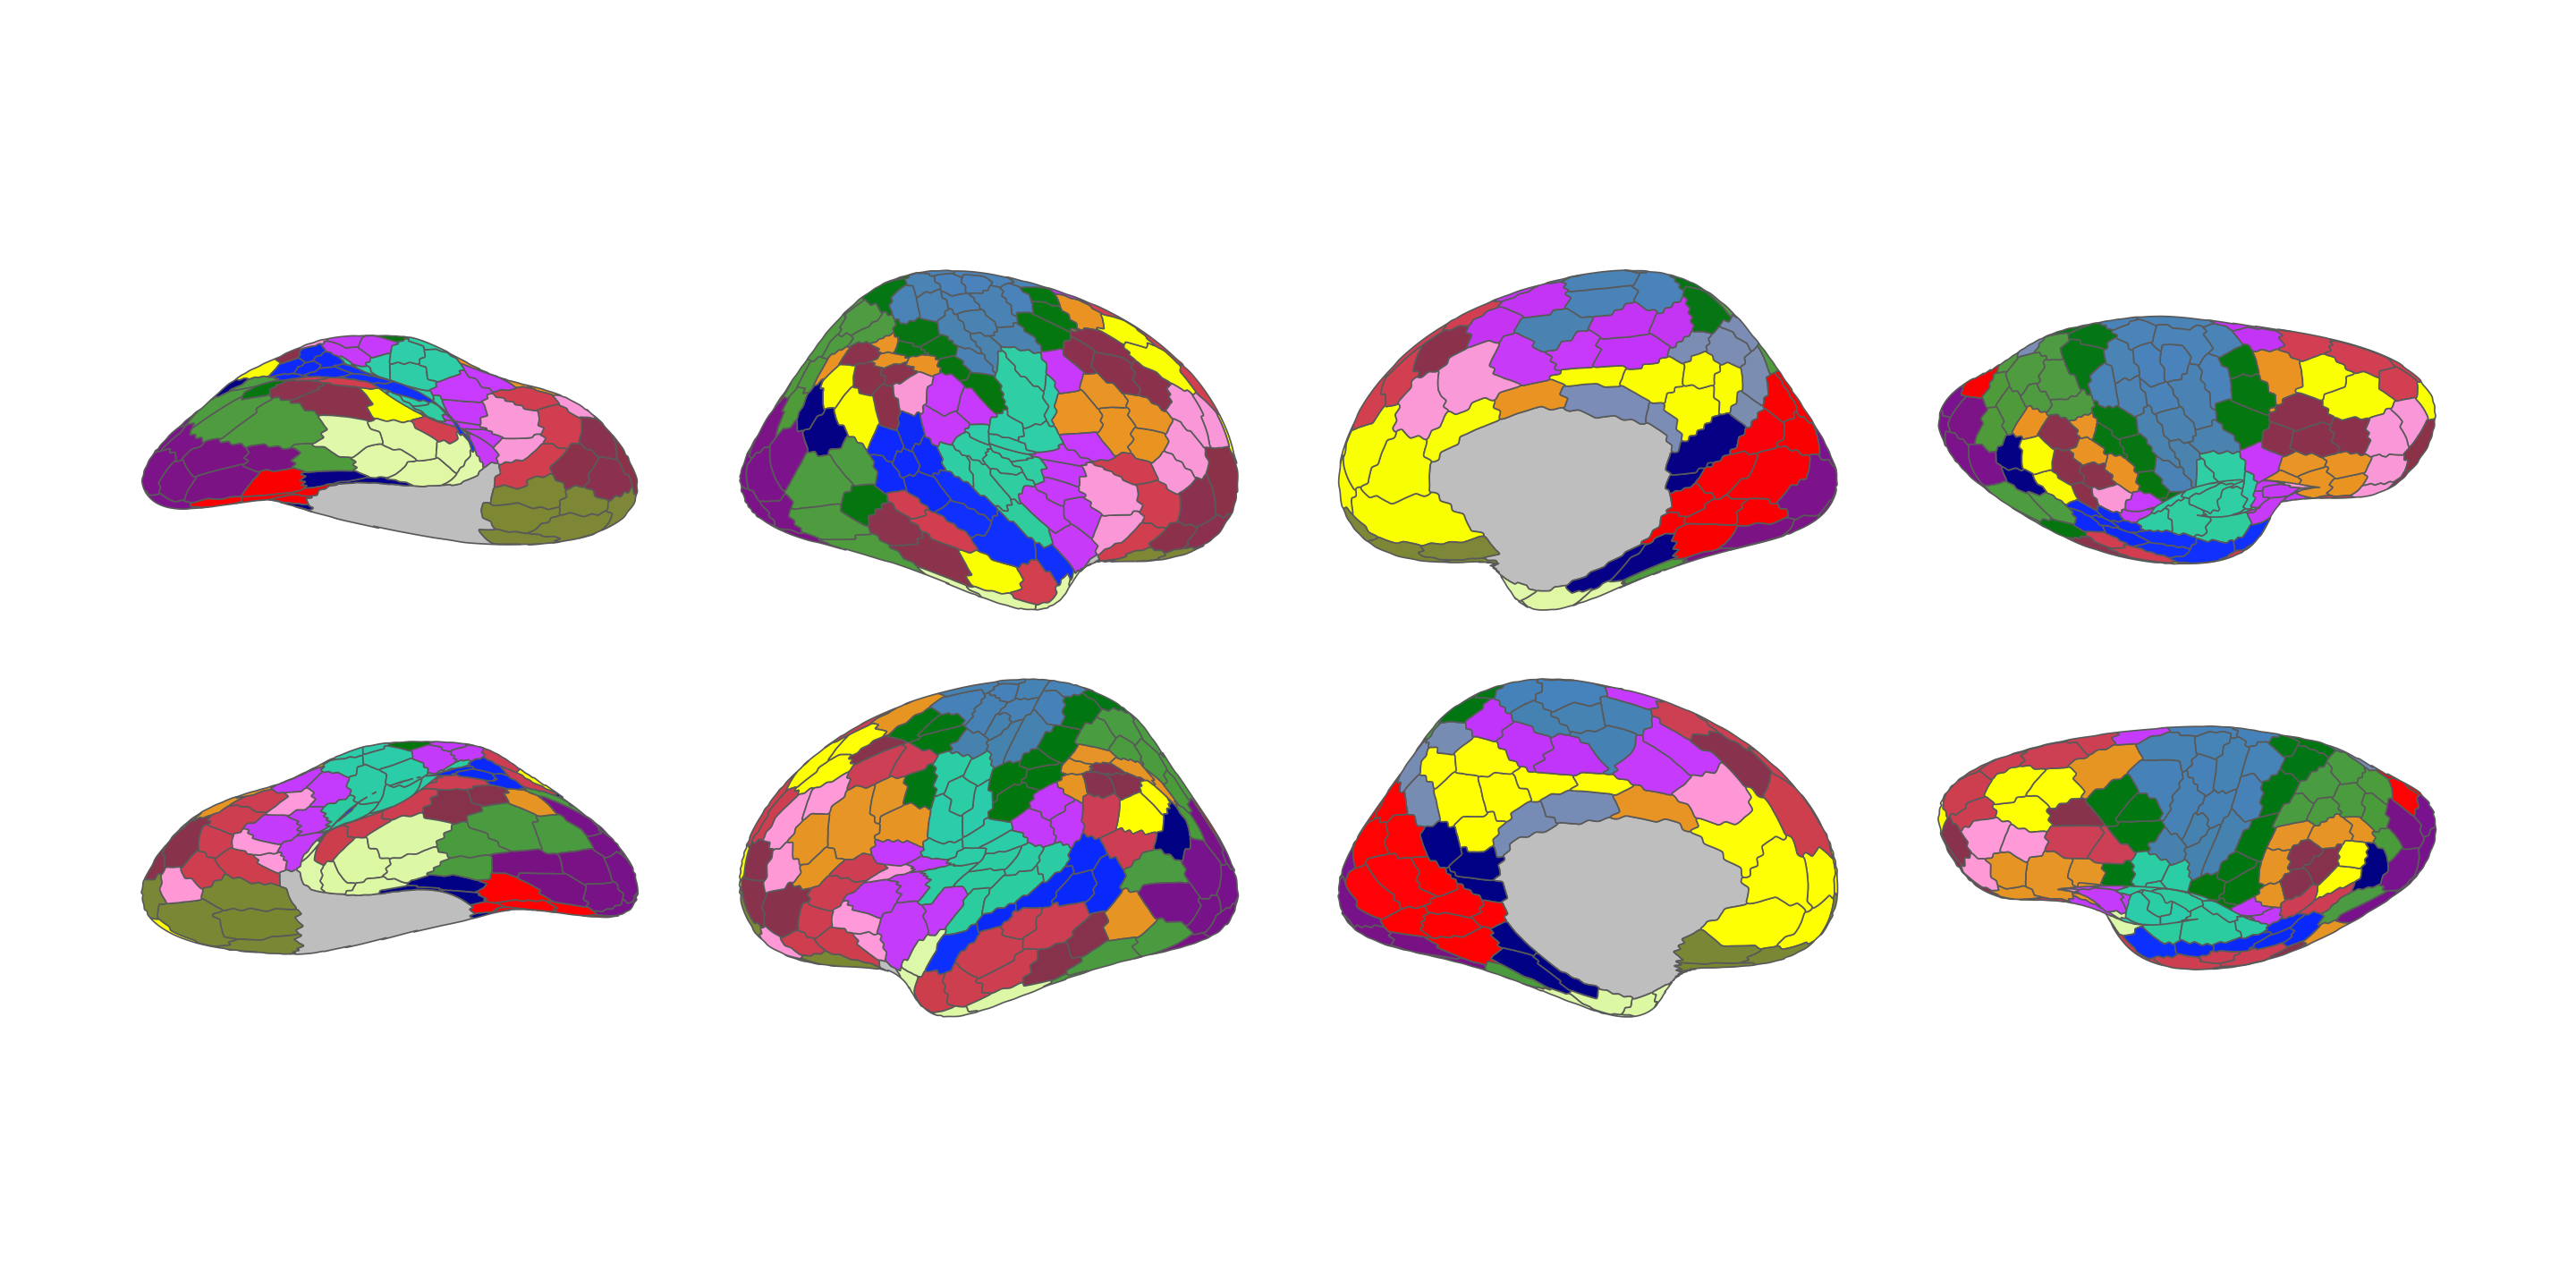
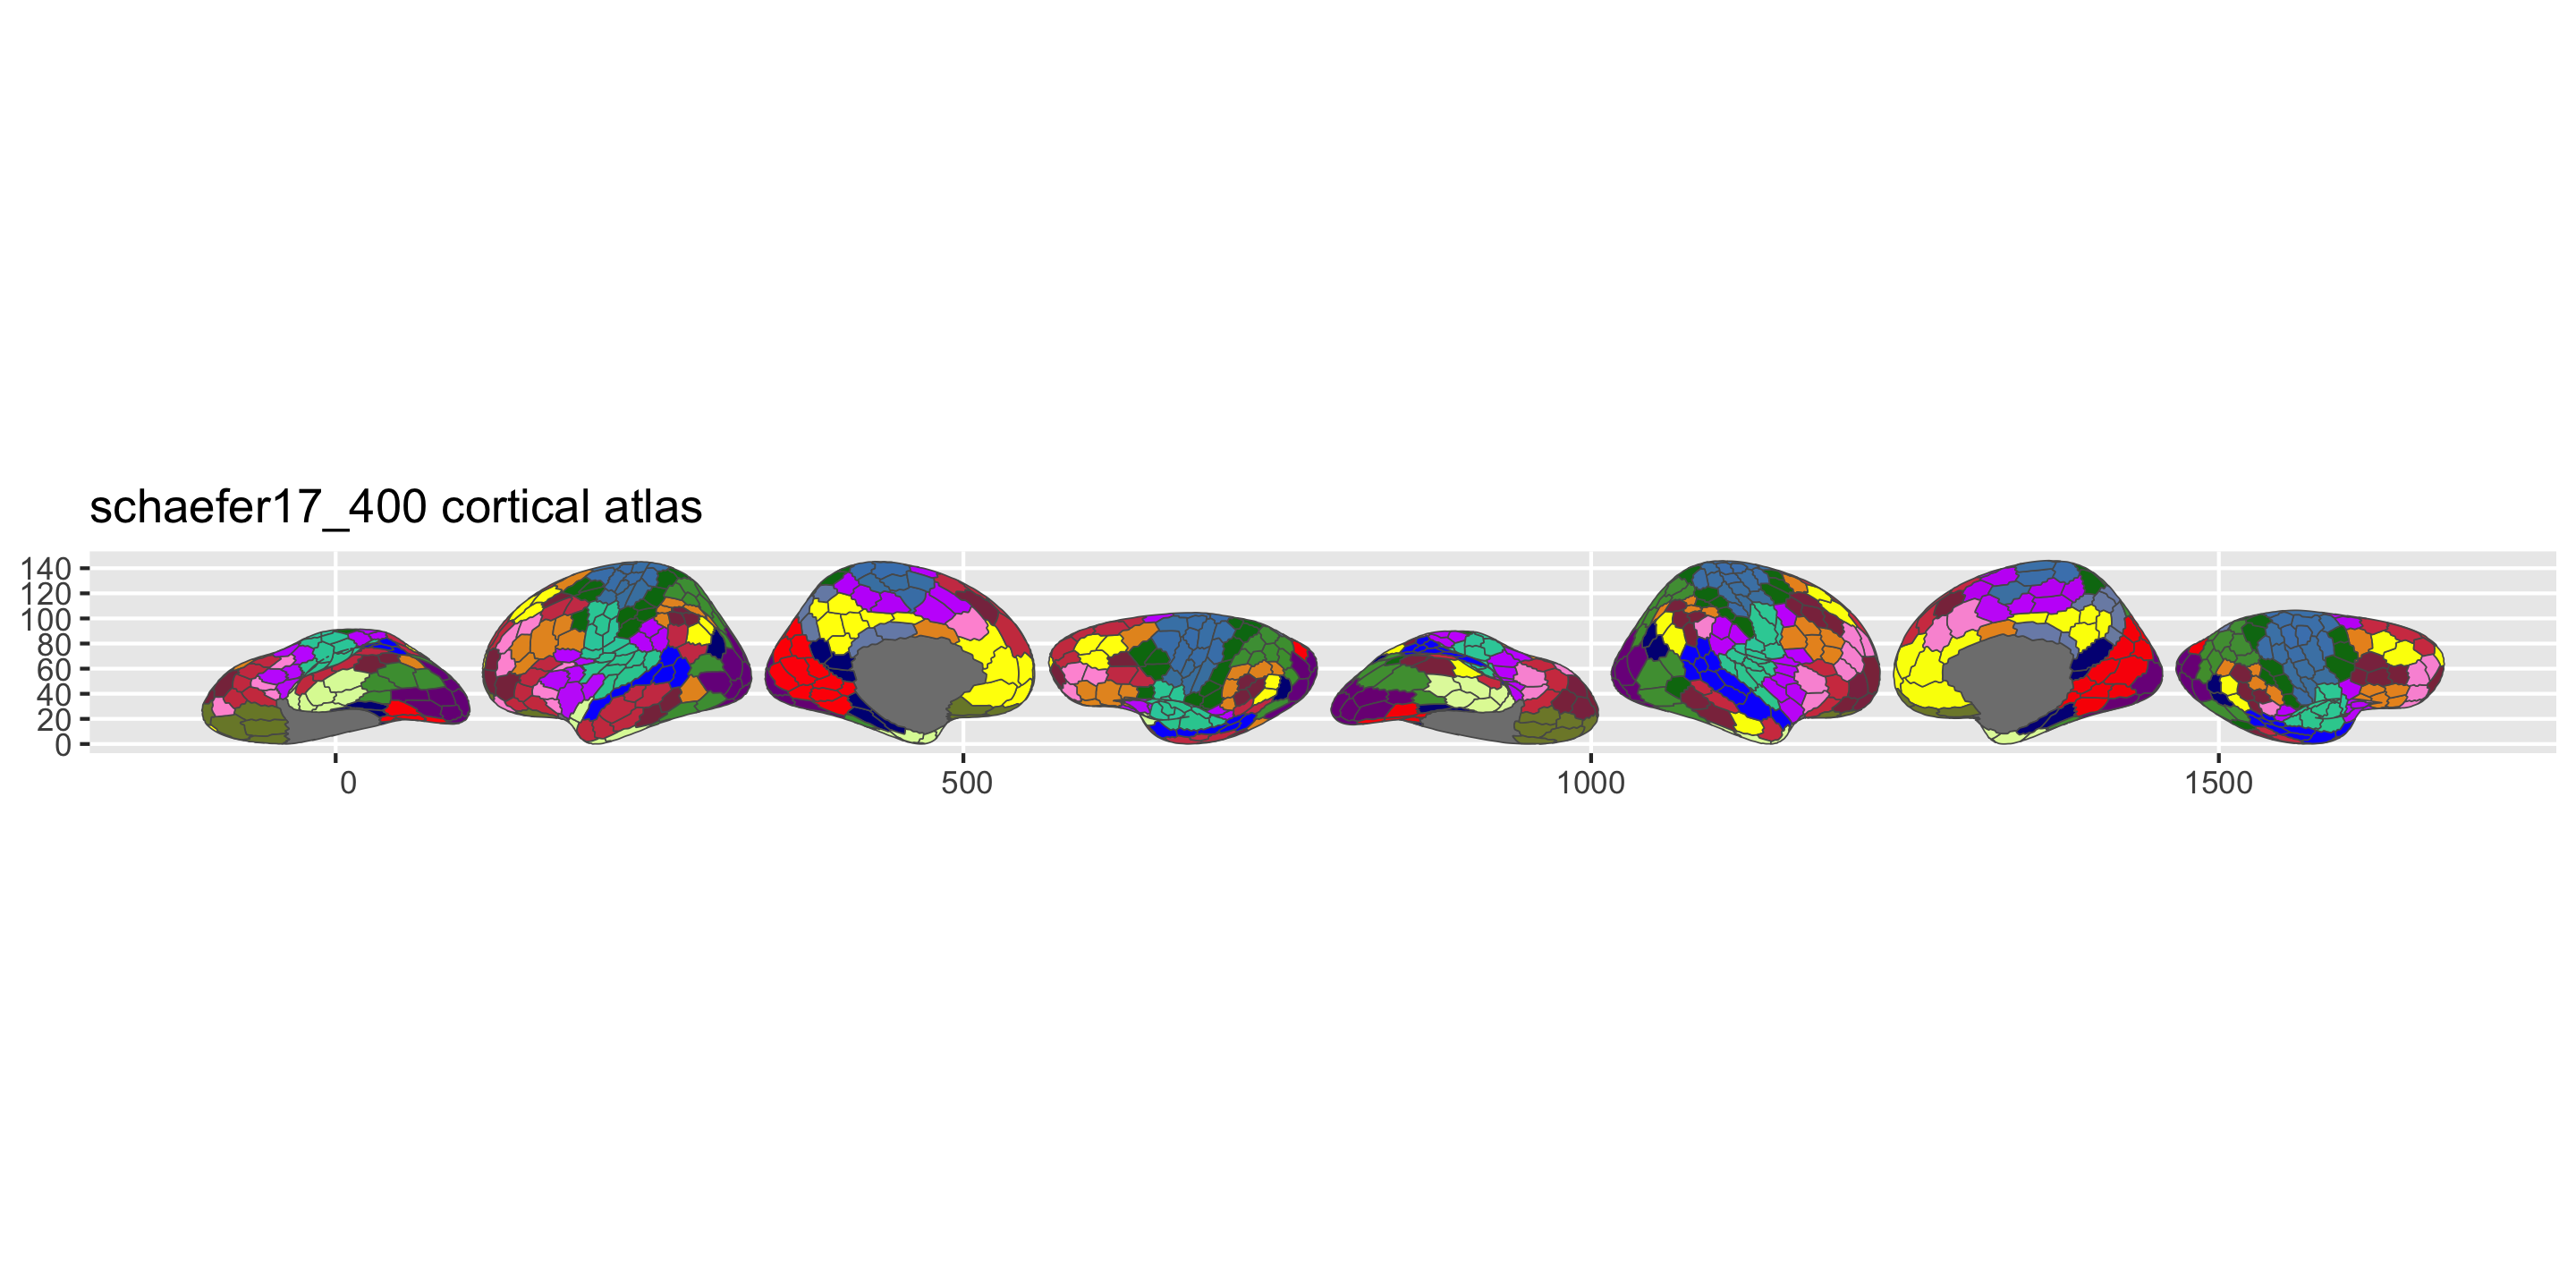
Simplify README plots to use plot() and re-render

diff --git a/README.md b/README.md
@@ -40,17 +40,8 @@ pak::pak("ggsegverse/ggsegSchaefer")
 ``` r
 library(ggseg)
 library(ggsegSchaefer)
-library(ggplot2)
 
-ggplot() +
-  geom_brain(
-    atlas = schaefer7_400(),
-    mapping = aes(fill = label),
-    position = position_brain(hemi ~ view),
-    show.legend = FALSE
-  ) +
-  scale_fill_manual(values = schaefer7_400()$palette, na.value = "grey") +
-  theme_void()
+plot(schaefer7_400())
 ```
 
 <img src="man/figures/README-schaefer7-400-1.png"
@@ -59,15 +50,7 @@ style="width:100.0%" />
 ## Schaefer 17-network (400 parcels)
 
 ``` r
-ggplot() +
-  geom_brain(
-    atlas = schaefer17_400(),
-    mapping = aes(fill = label),
-    position = position_brain(hemi ~ view),
-    show.legend = FALSE
-  ) +
-  scale_fill_manual(values = schaefer17_400()$palette, na.value = "grey") +
-  theme_void()
+plot(schaefer17_400())
 ```
 
 <img src="man/figures/README-schaefer17-400-1.png"